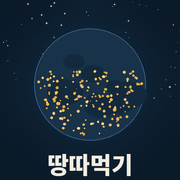
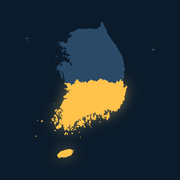
Add files via upload

diff --git a/sw.js b/sw.js
@@ -1,8 +1,8 @@
 /* 땅따먹기 — 오프라인에서도 열리게 하고, 앱으로 설치되게 합니다. */
-var CACHE = "ttang-v1";
+var CACHE = "ttang-v2";
 var FILES = [
   "./", "./index.html", "./manifest.json",
-  "./icon-192.png", "./icon-512.png", "./apple-touch-icon.png"
+  "./icon-192.png", "./icon-512.png", "./icon-mask.png", "./apple-touch-icon.png"
 ];
 
 self.addEventListener("install", function(e){
